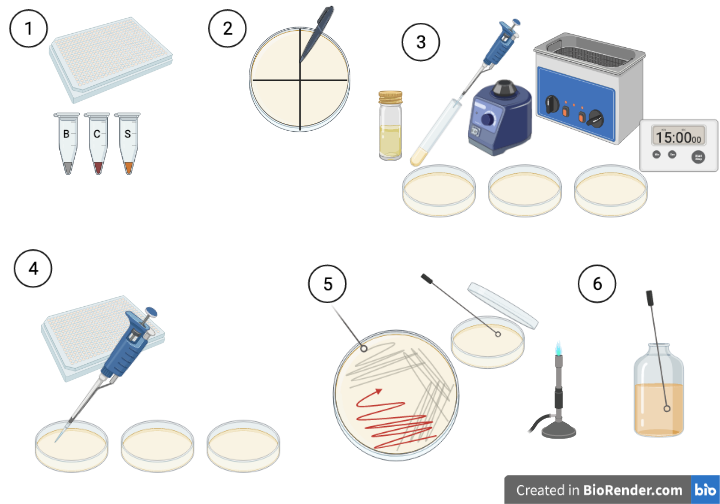
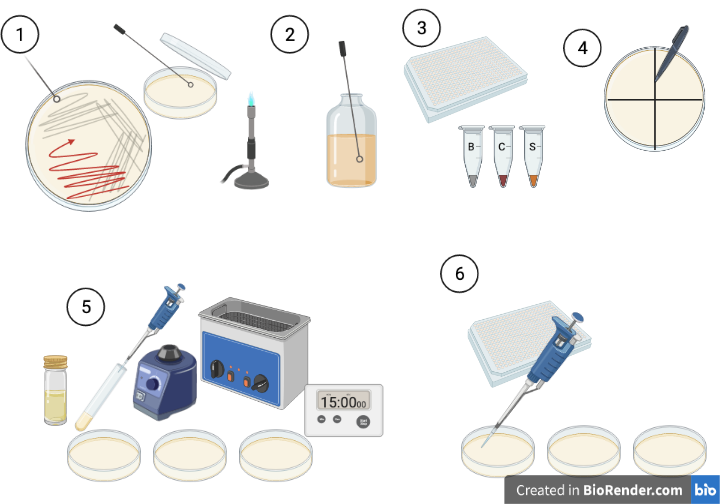
altered order to get cultures growing faster.

diff --git a/docs/spot-assays-and-purification.html b/docs/spot-assays-and-purification.html
@@ -172,32 +172,30 @@
 <h2><span class="header-section-number">2.1</span> Monday 24th May</h2>
 <p>Today, we set up the first spot assay to see if we have any viruses in your samples. To make the lawn of bacteria, you need to combine an exponentially growing host with soft agar, then pour it onto a bottom plate and swirl it round for even coverage. You need to work quickly. The molten agar is above the thermal tolerance of most host bacteria, so we need to minimise the time the host spends in hot agar. Once on the bottom plate, the hot agar sets quickly, so you need to swirl quickly to get even coverage before it solidifies.</p>
 <p>We’ve set up three pouring stations with water baths containing glass test tubes with 3 mL molten top agar in them. Students will come up in turn and pour their host lawns. You’ll have one extra plate for a practice pour.</p>
-<p><img src="images/first-plaque-assay.png" /></p>
+<p><img src="images/first-plaque-assay.png" />
+- [ ] <strong>Step 1</strong>: Make a fresh streak plate of your culture. Flame an inoculation loop until it glows red and then allow it to cool. Pick 3-4 colonies from your overnight streak plate by dabbing the loop on them. Streak them down one side of a petri dish containing LB + agar. Reflame your loop, allow to cool and drag one side perpendicular to the original streak. Turn your plate 90° and repeat. Label with your name, date and host name.
+- [ ] <strong>Step 2</strong>: Make a fresh overnight culture for tomorrow’s plaque assays. Flame an inoculation loop until it glows red and then allow it to cool. Pick 3-4 colonies from your overnight streak plate by dabbing the loop on them. Transfer the loop into fresh LB medium in a sterilin. Reflame your loop. Label the sterilin with your name, date and host name. Bring the new streak plate and overnight culture to the front for us to incubate.</p>
 <ul class="task-list">
 <li><input type="checkbox" disabled="" />
-<strong>Step 1</strong>: Collect your plate of phage lysates from last week and a culture of your host at <span class="math inline">\(OD_{600}\)</span> of 0.6. You will also need 4 bottom agar plates. You’ll also need to collect a microcentrifuge tube of the phage lysate for your host from the chicken sample (<strong>C</strong>), and a microcentrifuge tube of the phage lysate for your host from the sewage sample (<strong>S</strong>).</li>
+<strong>Step 3</strong>: Collect your plate of phage lysates from last week and a culture of your host at <span class="math inline">\(OD_{600}\)</span> of 0.6. You will also need 4 bottom agar plates. You’ll also need to collect a microcentrifuge tube of the phage lysate for your host from the chicken sample (<strong>C</strong>), and a microcentrifuge tube of the phage lysate for your host from the sewage sample (<strong>S</strong>).</li>
 <li><input type="checkbox" disabled="" />
-<strong>Step 2</strong>: You’ll be putting 12 spots per plate (one per sample). I find the easiest way to do this is to divide your plate into quadrants, and then place three spots per quadrant. Draw two perpendicular bisecting lines on the bottom of each plate with a ruler to divide it into quadrants. Mark one edge with an arrow so we can orientate it. Label each plate with your name, the host bacterium, the date, and <em>Plate 1</em> through <em>Plate 3</em>. Label the last plate <em>Practice</em>. On your three numbered plates, write the numbers of the samples where you are going to put them in the quadrants as shown here:</li>
+<strong>Step 4</strong>: You’ll be putting 12 spots per plate (one per sample). I find the easiest way to do this is to divide your plate into quadrants, and then place three spots per quadrant. Draw two perpendicular bisecting lines on the bottom of each plate with a ruler to divide it into quadrants. Mark one edge with an arrow so we can orientate it. Label each plate with your name, the host bacterium, the date, and <em>Plate 1</em> through <em>Plate 3</em>. Label the last plate <em>Practice</em>. On your three numbered plates, write the numbers of the samples where you are going to put them in the quadrants as shown here:</li>
 </ul>
 <p><img src="images/plate-layout.png" />
 where <strong>B</strong> is where you’ll put your blank, <strong>C</strong> is where you’ll put your chicken sample and <strong>S</strong> is where you’ll put your sewage sample.</p>
 <ul class="task-list">
 <li><input type="checkbox" disabled="" />
-<strong>Step 3a</strong>: Bring your labelled plates and host culture to a pouring station. We’ll walk you through the process. Briefly vortex your host culture (1-2 seconds) to resuspend it. Under a blue flame, put your practice plate in front of you and take off the lid. Take the cap off of a tube of molten agar, but leave it in the water bath. Use a pipette to suck up 1 mL of host culture into a blue tip. Using the other hand, take the tube of molten agar out of the bath and add the 1 mL of culture to it. Immediately vortex the agar (1-2 seconds) to mix and pour quickly but smoothly into the centre of the practice plate. If there are any bubbles in the tube, they’ll come out last, and you want to leave them in the tube. Quickly place the tube into the waste beaker and swirl the plate to ensure even coverage of the agar across the surface. Put the lid back on the plate, but leave it with the agar on the bottom to allow the top agar to set. Slide the plate over to one side and repeat with your remaining three plates. Note the time or set a timer for 15 minutes.</li>
+<strong>Step 5a</strong>: Bring your labelled plates and host culture to a pouring station. We’ll walk you through the process. Briefly vortex your host culture (1-2 seconds) to resuspend it. Under a blue flame, put your practice plate in front of you and take off the lid. Take the cap off of a tube of molten agar, but leave it in the water bath. Use a pipette to suck up 1 mL of host culture into a blue tip. Using the other hand, take the tube of molten agar out of the bath and add the 1 mL of culture to it. Immediately vortex the agar (1-2 seconds) to mix and pour quickly but smoothly into the centre of the practice plate. If there are any bubbles in the tube, they’ll come out last, and you want to leave them in the tube. Quickly place the tube into the waste beaker and swirl the plate to ensure even coverage of the agar across the surface. Put the lid back on the plate, but leave it with the agar on the bottom to allow the top agar to set. Slide the plate over to one side and repeat with your remaining three plates. Note the time or set a timer for 15 minutes.</li>
 <li><input type="checkbox" disabled="" />
-<strong>Step 3b</strong>: After 15 minutes, collect your plates (the top agar should now be set) and take them back to your work area. Spot assays work best if the phages are added shortly after the top agar has set.</li>
+<strong>Step 5b</strong>: After 15 minutes, collect your plates (the top agar should now be set) and take them back to your work area. Spot assays work best if the phages are added shortly after the top agar has set.</li>
 <li><input type="checkbox" disabled="" />
-<strong>Step 4a</strong>: Under a blue flame, open up Plate 1 and spot 5 µL of sample from the first eleven samples of your 96 well plate, plus your blank onto their appropriate locations on the plate. To do this, gently push the liquid out of the pipette over the location, when it has formed a droplet, touch the droplet to the surface of the agar to transfer.</li>
+<strong>Step 6a</strong>: Under a blue flame, open up Plate 1 and spot 5 µL of sample from the first eleven samples of your 96 well plate, plus your blank onto their appropriate locations on the plate. To do this, gently push the liquid out of the pipette over the location, when it has formed a droplet, touch the droplet to the surface of the agar to transfer.</li>
 <li><input type="checkbox" disabled="" />
-<strong>Step 4b</strong>: Cover the plate and gently slide it to one side so as not to disturb the drops (or you get long, streaky plaques). As long as it is still near the blue flame, slide the lids partially to one side to speed up drying. <strong>DO NOT INVERT THE PLATE</strong>. It can take 20-30 mins outside of a flowhood for a droplet to dry, so we want to leave it as long as possible. Once the droplet is dry, any phages will diffuse through the agar and find their prey.</li>
+<strong>Step 6b</strong>: Cover the plate and gently slide it to one side so as not to disturb the drops (or you get long, streaky plaques). As long as it is still near the blue flame, slide the lids partially to one side to speed up drying. <strong>DO NOT INVERT THE PLATE</strong>. It can take 20-30 mins outside of a flowhood for a droplet to dry, so we want to leave it as long as possible. Once the droplet is dry, any phages will diffuse through the agar and find their prey.</li>
 <li><input type="checkbox" disabled="" />
-<strong>Step 4c</strong>: Repeat the process with the remaining two plates and the remaining samples. As before, if you accidentally put a sample on the wrong spot, make a note of it so we can correct it later.</li>
+<strong>Step 6c</strong>: Repeat the process with the remaining two plates and the remaining samples. As before, if you accidentally put a sample on the wrong spot, make a note of it so we can correct it later.</li>
 <li><input type="checkbox" disabled="" />
-<strong>Step 4d</strong>: When the last plate is dry, slide the lids back on and invert the plates. Bring the plates to the front and we will incubate them at 37 °C overnight to allow plaque formation.</li>
-<li><input type="checkbox" disabled="" />
-<strong>Step 5</strong>: Make a fresh streak plate of your culture. Flame an inoculation loop until it glows red and then allow it to cool. Pick 3-4 colonies from your overnight streak plate by dabbing the loop on them. Streak them down one side of a petri dish containing LB + agar. Reflame your loop, allow to cool and drag one side perpendicular to the original streak. Turn your plate 90° and repeat. Label with your name, date and host name.</li>
-<li><input type="checkbox" disabled="" />
-<strong>Step 6</strong>: Make a fresh overnight culture for tomorrow’s plaque assays. Flame an inoculation loop until it glows red and then allow it to cool. Pick 3-4 colonies from your overnight streak plate by dabbing the loop on them. Transfer the loop into fresh LB medium in a sterilin. Reflame your loop. Label the sterilin with your name, date and host name. Bring the new streak plate and overnight culture to the front for us to incubate.</li>
+<strong>Step 6d</strong>: When the last plate is dry, slide the lids back on and invert the plates. Bring the plates to the front and we will incubate them at 37 °C overnight to allow plaque formation.</li>
 </ul>
 </div>
 <div id="tuesday-25th-may" class="section level2" number="2.2">
@@ -211,49 +209,49 @@ where <strong>B</strong> is where you’ll put your blank, <strong>C</strong> is
 <p><img src="images/spot-dilution.png" /></p>
 <p>We then pick a plaque that is from the greatest amount of dilution (lowest concentration of phages). It is possible that there could still be more than one phage in this plaque, if we were unlucky, so we repeat the process another two times. For the rest of this week, we will be performing these purification steps.</p>
 <ul>
-<li><input type="checkbox" disabled="" />
-<strong>Step 1</strong>: Collect your plates from the front and note the samples for which you have plaques. Make a record of the features of the plaque (We’ll take photos of each plate with plaques).</li>
-<li><em>How big is it?</em> Plaque size is a function of how easily the virus diffuses through the medium (e.g. size) and how fast it replicates - plaques stop growing when the hosts reach stationary phase in the medium. The faster it replicates, the greater the number of replication cycles, the larger the plaque.</li>
-<li><em>Does it have a halo?</em> A halo is a good indicator of a virulent phage with an explosive escape from the cell powered by lysins. Lysins continue to diffuse through the medium and kill hosts after the viral plaque has stopped growing, creating a halo.</li>
-<li><em>Is the centre clear or cloudy?</em> Cloudy plaques are usually a good indicator of a temperate phage. Temperate phages confer <strong>superinfection immunity</strong> to the cell, preventing infection from other similar phages. Protected from lytic infection in this way, the cells can continue to replicate in the plaque, causing it to be cloudy. It doesn’t reach the same density as the surrounding lawn because the lytic/lysogenic switch is a stochastic process, so some killing continues.</li>
+<li><p><input type="checkbox" disabled="" />
+<strong>Step 1</strong>: Make a fresh streak plate of your culture. Flame an inoculation loop until it glows red and then allow it to cool. Pick 3-4 colonies from your overnight streak plate by dabbing the loop on them. Streak them down one side of a petri dish containing LB + agar. Reflame your loop, allow to cool and drag one side perpendicular to the original streak. Turn your plate 90° and repeat. Label with your name, date and host name.</p></li>
+<li><p><input type="checkbox" disabled="" />
+<strong>Step 2</strong>: Make a fresh overnight culture for tomorrow’s plaque assays. Flame an inoculation loop until it glows red and then allow it to cool. Pick 3-4 colonies from your overnight streak plate by dabbing the loop on them. Transfer the loop into fresh LB medium in a sterilin. Reflame your loop. Label the sterilin with your name, date and host name. Bring the new streak plate and overnight culture to the front for us to incubate.</p></li>
+<li><p><input type="checkbox" disabled="" />
+<strong>Step 3</strong>: Collect your plates from the front and note the samples for which you have plaques. Make a record of the features of the plaque (We’ll take photos of each plate with plaques).</p></li>
+<li><p><em>How big is it?</em> Plaque size is a function of how easily the virus diffuses through the medium (e.g. size) and how fast it replicates - plaques stop growing when the hosts reach stationary phase in the medium. The faster it replicates, the greater the number of replication cycles, the larger the plaque.</p></li>
+<li><p><em>Does it have a halo?</em> A halo is a good indicator of a virulent phage with an explosive escape from the cell powered by lysins. Lysins continue to diffuse through the medium and kill hosts after the viral plaque has stopped growing, creating a halo.</p></li>
+<li><p><em>Is the centre clear or cloudy?</em> Cloudy plaques are usually a good indicator of a temperate phage. Temperate phages confer <strong>superinfection immunity</strong> to the cell, preventing infection from other similar phages. Protected from lytic infection in this way, the cells can continue to replicate in the plaque, causing it to be cloudy. It doesn’t reach the same density as the surrounding lawn because the lytic/lysogenic switch is a stochastic process, so some killing continues.</p></li>
 </ul>
 <p>For each plaque on your plate you will need to perform the steps below. If your plate doesn’t have any plaques, we will assign you a plaque from a different plate.</p>
 <ul class="task-list">
 <li><input type="checkbox" disabled="" />
-<strong>Step 2a</strong>: Label a microcentrifuge tube containing 100 µL of SM buffer with the number of the sample, the host and your name.</li>
+<strong>Step 4a</strong>: Label a microcentrifuge tube containing 100 µL of SM buffer with the number of the sample, the host and your name.</li>
 <li><input type="checkbox" disabled="" />
-<strong>Step 2b</strong>: Under a blue flame, take the lid off of your plate. Set a 1000 µL pipette to 200 µL. Using a blue pipette tip take a core of the plaque (we’ll show you how to do this) and eject the agar core into the 100 µL of SM buffer. Vortex the microcentrifuge tube for 2-3 seconds, leave for 5 minutes then vortex again for 2-3 seconds. The viruses will be released from the agar into the SM buffer.</li>
+<strong>Step 4b</strong>: Under a blue flame, take the lid off of your plate. Set a 1000 µL pipette to 200 µL. Using a blue pipette tip take a core of the plaque (we’ll show you how to do this) and eject the agar core into the 100 µL of SM buffer. Vortex the microcentrifuge tube for 2-3 seconds, leave for 5 minutes then vortex again for 2-3 seconds. The viruses will be released from the agar into the SM buffer.</li>
 </ul>
 <p><img src="images/dte-plate.png" /></p>
 <ul class="task-list">
 <li><p><input type="checkbox" disabled="" />
-<strong>Step 3a</strong>: Into a 96 well plate, set up a dilution series in a row for each plaque you have picked. Pipette <strong>90 µL</strong> of SM buffer into wells 2 through 11 (ignore columns 1 and 12). You can use the same pipette tip for each row.</p></li>
+<strong>Step 5a</strong>: Into a 96 well plate, set up a dilution series in a row for each plaque you have picked. Pipette <strong>90 µL</strong> of SM buffer into wells 2 through 11 (ignore columns 1 and 12). You can use the same pipette tip for each row.</p></li>
 <li><p><input type="checkbox" disabled="" />
-<strong>Step 3b</strong>: Pipette <strong>100 µL</strong> from your microcentrifuge tube into column 1.</p></li>
+<strong>Step 5b</strong>: Pipette <strong>100 µL</strong> from your microcentrifuge tube into column 1.</p></li>
 <li><p><input type="checkbox" disabled="" />
-<strong>Step 3c</strong>: Pipette <strong>10 µL</strong> from column 1 into column 2 and mix with gentle pipetting.</p></li>
+<strong>Step 5c</strong>: Pipette <strong>10 µL</strong> from column 1 into column 2 and mix with gentle pipetting.</p></li>
 <li><p><input type="checkbox" disabled="" />
-<strong>Step 3d</strong>: Pipette <strong>10 µL</strong> from column 2 into column 3 and mix with gentle pipetting.</p></li>
+<strong>Step 5d</strong>: Pipette <strong>10 µL</strong> from column 2 into column 3 and mix with gentle pipetting.</p></li>
 <li><p><input type="checkbox" disabled="" />
-<strong>Step 3e</strong>: Pipette <strong>10 µL</strong> from column 3 into column 4 and mix with gentle pipetting.</p></li>
+<strong>Step 5e</strong>: Pipette <strong>10 µL</strong> from column 3 into column 4 and mix with gentle pipetting.</p></li>
 <li><p><input type="checkbox" disabled="" />
-<strong>Step 3f</strong>: Repeat this process of adding <strong>10 µL</strong> of mixture from column <span class="math inline">\(n\)</span> into <span class="math inline">\(n+1\)</span> and mixing until you’ve added 10 µL to column 11 and mixed.</p></li>
+<strong>Step 5f</strong>: Repeat this process of adding <strong>10 µL</strong> of mixture from column <span class="math inline">\(n\)</span> into <span class="math inline">\(n+1\)</span> and mixing until you’ve added 10 µL to column 11 and mixed.</p></li>
 <li><p><input type="checkbox" disabled="" />
-<strong>Step 3g</strong>: Change your pipette tip and do this each microcentrifuge tube you have, with each going into column 1 on a different row.</p></li>
+<strong>Step 5g</strong>: Change your pipette tip and do this each microcentrifuge tube you have, with each going into column 1 on a different row.</p></li>
 <li><p><input type="checkbox" disabled="" />
-<strong>Step 4a</strong>: Collect a bottom agar plate for every row you have filled on your 96-well plate.</p></li>
+<strong>Step 6a</strong>: Collect a bottom agar plate for every row you have filled on your 96-well plate.</p></li>
 <li><p><input type="checkbox" disabled="" />
-<strong>Step 4b</strong>: Divide it into quadrants and mark the locations of the dilution series as shown in the figure below.
+<strong>Step 6b</strong>: Divide it into quadrants and mark the locations of the dilution series as shown in the figure below.
 <img src="images/dte-layout.png" />
 The numbers correspond to the columns of the plate. To convert to dilution factor, we subtract 1 and raise it to the power of 10, e.g. Position 1 is undiluted (<span class="math inline">\(10^{0}\)</span>), Position 2 is a 10-fold dilution (<span class="math inline">\(10^{1}\)</span>) etc. Label the plate with your name, the host name, the date and the sample number from which the plaque was picked.</p></li>
 <li><p><input type="checkbox" disabled="" />
-<strong>Step 5</strong>: Using the same protocol as yesterday, visit a pouring station and make a lawn of bacteria on your plates and allow to set for 15 mins before taking them back to your bench.</p></li>
+<strong>Step 7</strong>: Using the same protocol as yesterday, visit a pouring station and make a lawn of bacteria on your plates and allow to set for 15 mins before taking them back to your bench.</p></li>
 <li><p><input type="checkbox" disabled="" />
-<strong>Step 6</strong>: Using the same method as yesterday, spot <strong>5 µL</strong> from each well in a row of your 96-well plate onto their assigned position on the plate. Onto the blank (<strong>B</strong>), pipette <strong>5 µL</strong> of SM buffer. We want to make sure any ‘plaque’ is a result of viral infection, not an interaction with the buffer. Allow the spots to dry before inverting your plate and bringing it to the front for us to put in an incubator overnight.</p></li>
-<li><p><input type="checkbox" disabled="" />
-<strong>Step 7</strong>: Make a fresh streak plate of your culture. Flame an inoculation loop until it glows red and then allow it to cool. Pick 3-4 colonies from your overnight streak plate by dabbing the loop on them. Streak them down one side of a petri dish containing LB + agar. Reflame your loop, allow to cool and drag one side perpendicular to the original streak. Turn your plate 90° and repeat. Label with your name, date and host name.</p></li>
-<li><p><input type="checkbox" disabled="" />
-<strong>Step 8</strong>: Make a fresh overnight culture for tomorrow’s plaque assays. Flame an inoculation loop until it glows red and then allow it to cool. Pick 3-4 colonies from your overnight streak plate by dabbing the loop on them. Transfer the loop into fresh LB medium in a sterilin. Reflame your loop. Label the sterilin with your name, date and host name. Bring the new streak plate and overnight culture to the front for us to incubate.</p></li>
+<strong>Step 8</strong>: Using the same method as yesterday, spot <strong>5 µL</strong> from each well in a row of your 96-well plate onto their assigned position on the plate. Onto the blank (<strong>B</strong>), pipette <strong>5 µL</strong> of SM buffer. We want to make sure any ‘plaque’ is a result of viral infection, not an interaction with the buffer. Allow the spots to dry before inverting your plate and bringing it to the front for us to put in an incubator overnight.</p></li>
 </ul>
 </div>
 <div id="wednesday-26th-may" class="section level2" number="2.3">
@@ -262,24 +260,24 @@ The numbers correspond to the columns of the plate. To convert to dilution facto
 <p><img src="images/spot-dilution.png" /></p>
 <p>The next step is to core an individual plaque from the largest dilution number (e.g at <span class="math inline">\(10^{-9}\)</span> here) and repeat the dilution to extinction process.</p>
 <ul class="task-list">
-<li><input type="checkbox" disabled="" />
-<strong>Step 1</strong>: Label a microcentrifuge tube containing <strong>100 µL</strong> of SM buffer with the number of the sample, the host and your name for each plate from yesterday.</li>
-<li><input type="checkbox" disabled="" />
-<strong>Step 2</strong>: Under a blue flame, take the lid off of your plate. Take a core of an individual plaque from the largest dilution number. <em>If you have clearly distinct plaque morphologies at high dilutions, it could be an opportunity to isolate another phage, so let us know!</em></li>
-<li><input type="checkbox" disabled="" />
-<strong>Step 3</strong>: Add the core to the 100 µL of SM buffer, vortex, let sit and vortex again as you did yesterday.</li>
-<li><input type="checkbox" disabled="" />
-<strong>Step 4</strong>: Set up your dilution series on a 96-well plate as you did yesterday.</li>
-<li><input type="checkbox" disabled="" />
-<strong>Step 5</strong>: Collect your bottom agar plates and label them up as you did yesterday (date, sample, name, host, plus dilution well in quadrants).</li>
-<li><input type="checkbox" disabled="" />
-<strong>Step 6</strong>: Prepare your bacterial lawns at a pouring station.</li>
-<li><input type="checkbox" disabled="" />
-<strong>Step 7</strong>: Under a blue flame, spot <strong>5 µL</strong> of each dilution onto the freshly set lawn in the appropriate position and allow to dry.</li>
-<li><input type="checkbox" disabled="" />
-<strong>Step 7</strong>: Make a fresh streak plate of your culture. Flame an inoculation loop until it glows red and then allow it to cool. Pick 3-4 colonies from your overnight streak plate by dabbing the loop on them. Streak them down one side of a petri dish containing LB + agar. Reflame your loop, allow to cool and drag one side perpendicular to the original streak. Turn your plate 90° and repeat. Label with your name, date and host name.</li>
-<li><input type="checkbox" disabled="" />
-<strong>Step 8</strong>: Make a fresh overnight culture for tomorrow’s plaque assays. Flame an inoculation loop until it glows red and then allow it to cool. Pick 3-4 colonies from your overnight streak plate by dabbing the loop on them. Transfer the loop into fresh LB medium in a sterilin. Reflame your loop. Label the sterilin with your name, date and host name. Bring the new streak plate and overnight culture to the front for us to incubate.</li>
+<li><p><input type="checkbox" disabled="" />
+<strong>Step 1</strong>: Make a fresh streak plate of your culture. Flame an inoculation loop until it glows red and then allow it to cool. Pick 3-4 colonies from your overnight streak plate by dabbing the loop on them. Streak them down one side of a petri dish containing LB + agar. Reflame your loop, allow to cool and drag one side perpendicular to the original streak. Turn your plate 90° and repeat. Label with your name, date and host name.</p></li>
+<li><p><input type="checkbox" disabled="" />
+<strong>Step 2</strong>: Make a fresh overnight culture for tomorrow’s plaque assays. Flame an inoculation loop until it glows red and then allow it to cool. Pick 3-4 colonies from your overnight streak plate by dabbing the loop on them. Transfer the loop into fresh LB medium in a sterilin. Reflame your loop. Label the sterilin with your name, date and host name. Bring the new streak plate and overnight culture to the front for us to incubate.</p></li>
+<li><p><input type="checkbox" disabled="" />
+<strong>Step 3</strong>: Label a microcentrifuge tube containing <strong>100 µL</strong> of SM buffer with the number of the sample, the host and your name for each plate from yesterday.</p></li>
+<li><p><input type="checkbox" disabled="" />
+<strong>Step 4</strong>: Under a blue flame, take the lid off of your plate. Take a core of an individual plaque from the largest dilution number. <em>If you have clearly distinct plaque morphologies at high dilutions, it could be an opportunity to isolate another phage, so let us know!</em></p></li>
+<li><p><input type="checkbox" disabled="" />
+<strong>Step 5</strong>: Add the core to the 100 µL of SM buffer, vortex, let sit and vortex again as you did yesterday.</p></li>
+<li><p><input type="checkbox" disabled="" />
+<strong>Step 6</strong>: Set up your dilution series on a 96-well plate as you did yesterday.</p></li>
+<li><p><input type="checkbox" disabled="" />
+<strong>Step 7</strong>: Collect your bottom agar plates and label them up as you did yesterday (date, sample, name, host, plus dilution well in quadrants).</p></li>
+<li><p><input type="checkbox" disabled="" />
+<strong>Step 8</strong>: Prepare your bacterial lawns at a pouring station.</p></li>
+<li><p><input type="checkbox" disabled="" />
+<strong>Step 9</strong>: Under a blue flame, spot <strong>5 µL</strong> of each dilution onto the freshly set lawn in the appropriate position and allow to dry.</p></li>
 </ul>
 </div>
 <div id="thursday-27th-may" class="section level2" number="2.4">
